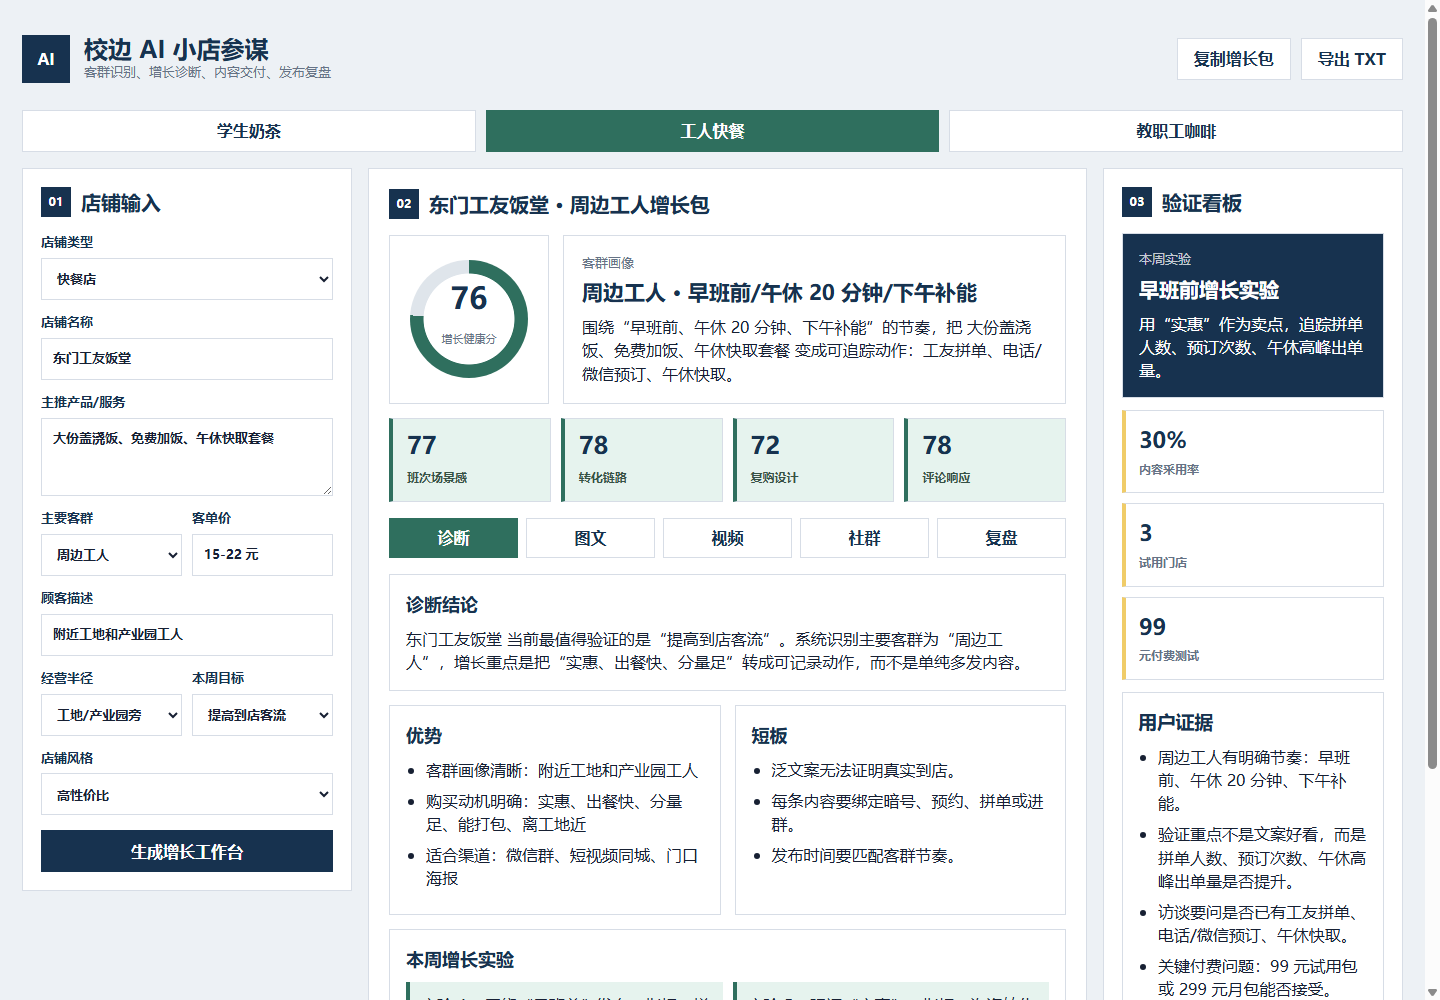
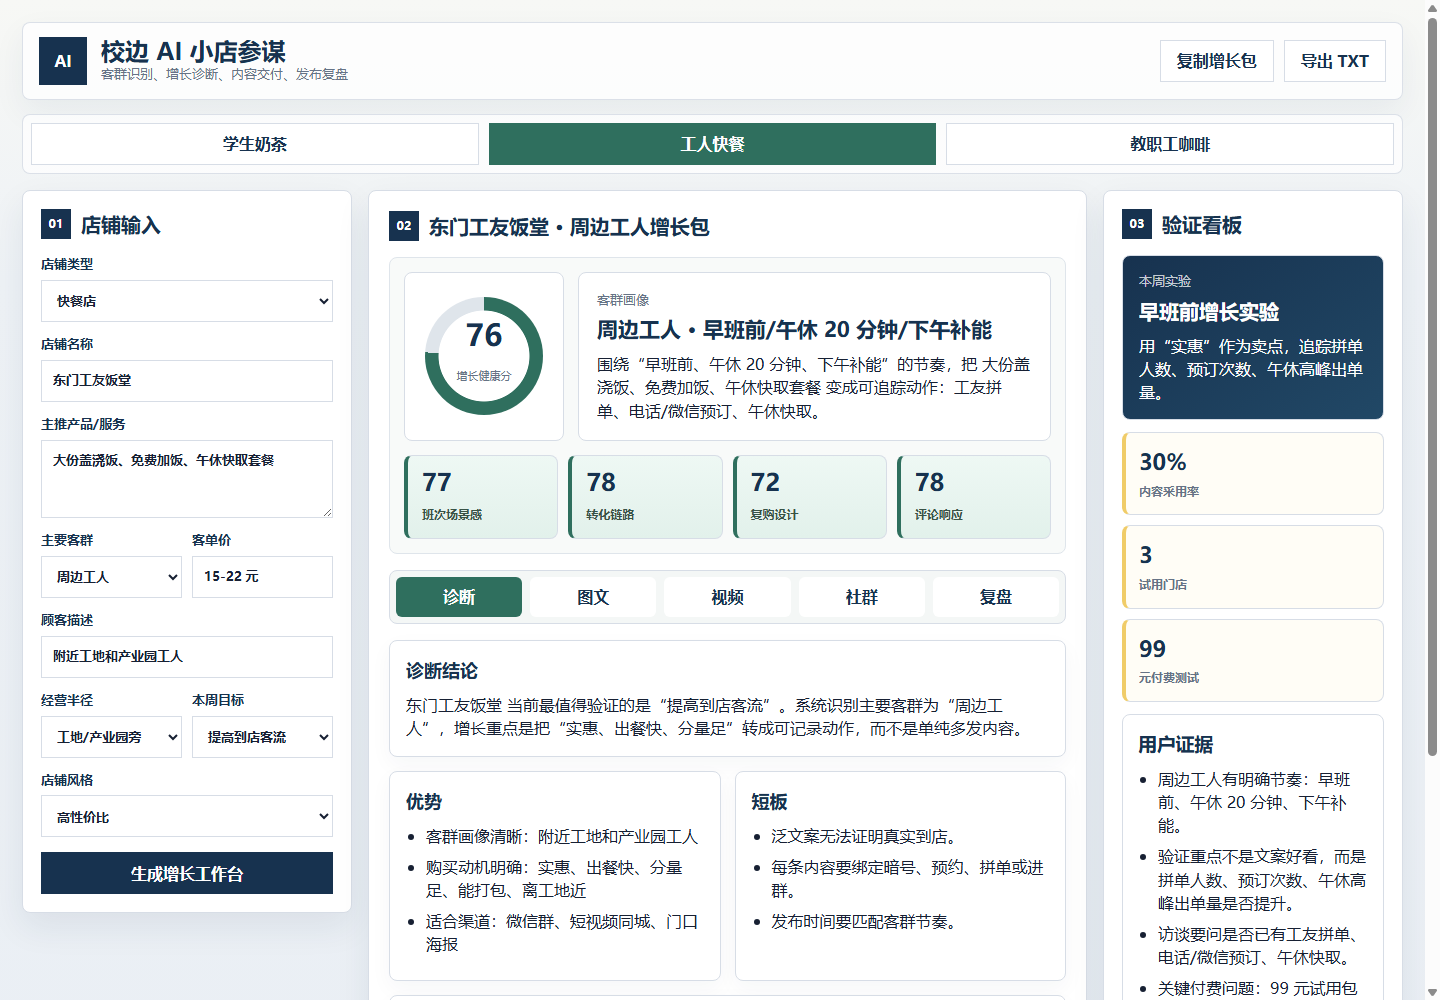
Improve prototype mockup and visual design

diff --git a/submission-a4.html b/submission-a4.html
@@ -121,6 +121,127 @@
       font-size: 7.1pt;
       font-weight: 800;
     }
+    .prototype-mock {
+      display: grid;
+      grid-template-columns: 0.72fr 1.55fr 0.85fr;
+      gap: 2mm;
+      margin-top: 2mm;
+      border: 0.8pt solid #cbd5df;
+      background: #eef3f6;
+      padding: 2.4mm;
+      min-height: 52mm;
+    }
+    .mock-panel {
+      background: #fff;
+      border: 0.7pt solid #d3d8df;
+      padding: 2mm;
+    }
+    .mock-title {
+      color: #17324f;
+      font-size: 7.2pt;
+      font-weight: 800;
+      margin-bottom: 1.5mm;
+    }
+    .mock-field {
+      height: 5.2mm;
+      margin-bottom: 1.4mm;
+      background: #f4f7f6;
+      border: 0.6pt solid #d8e2e8;
+    }
+    .mock-chip-row {
+      display: grid;
+      grid-template-columns: repeat(3, 1fr);
+      gap: 1mm;
+      margin-bottom: 1.8mm;
+    }
+    .mock-chip {
+      height: 5.2mm;
+      display: grid;
+      place-items: center;
+      background: #e8f3ef;
+      color: #17324f;
+      font-size: 6pt;
+      font-weight: 800;
+    }
+    .mock-chip.active {
+      background: #2f6f5e;
+      color: #fff;
+    }
+    .mock-score {
+      display: grid;
+      grid-template-columns: 18mm 1fr;
+      gap: 2mm;
+      margin-bottom: 2mm;
+    }
+    .mock-ring {
+      width: 18mm;
+      height: 18mm;
+      border-radius: 50%;
+      display: grid;
+      place-items: center;
+      color: #17324f;
+      font-size: 10pt;
+      font-weight: 900;
+      background:
+        radial-gradient(circle at center, #fff 0 53%, transparent 54%),
+        conic-gradient(#2f6f5e 77%, #dfe5eb 0);
+    }
+    .mock-headline {
+      background: #f4f7f6;
+      padding: 1.8mm;
+      color: #17324f;
+      font-size: 7pt;
+      font-weight: 800;
+    }
+    .mock-metrics {
+      display: grid;
+      grid-template-columns: repeat(4, 1fr);
+      gap: 1mm;
+      margin-bottom: 2mm;
+    }
+    .mock-metrics div {
+      background: #e8f3ef;
+      border-left: 2pt solid #2f6f5e;
+      padding: 1.3mm;
+      min-height: 10mm;
+      color: #17324f;
+      font-size: 6pt;
+      font-weight: 800;
+    }
+    .mock-result {
+      display: grid;
+      grid-template-columns: repeat(2, 1fr);
+      gap: 1.3mm;
+    }
+    .mock-result div {
+      min-height: 12mm;
+      background: #fff;
+      border: 0.6pt solid #d3d8df;
+      padding: 1.5mm;
+      font-size: 6.2pt;
+      color: #142033;
+    }
+    .mock-side-card {
+      background: #17324f;
+      color: #fff;
+      padding: 2mm;
+      font-size: 6.4pt;
+      margin-bottom: 1.5mm;
+      min-height: 18mm;
+    }
+    .mock-kpi {
+      display: grid;
+      grid-template-columns: repeat(2, 1fr);
+      gap: 1mm;
+    }
+    .mock-kpi div {
+      background: #fff8df;
+      border-left: 2pt solid #f0cc68;
+      padding: 1.5mm;
+      font-size: 6pt;
+      color: #17324f;
+      font-weight: 800;
+    }
     .timeline {
       grid-template-columns: repeat(7, 1fr);
     }
@@ -186,18 +307,45 @@
 
       <section class="wide">
         <h2>3. MVP 样例：可交互 Demo 页面</h2>
-        <p><span class="label">MVP 不是完整 SaaS：</span>只做一个可点击页面，验证老板能否在 3 分钟内理解“客群诊断 + 一周增长包”，并愿意发布/付费。</p>
-        <div class="mvp-row">
-          <div class="screen"><strong>输入屏</strong><span>店铺类型、产品、客单价、主要客群、经营半径、周目标。内置学生奶茶/工人快餐/教职工咖啡。</span></div>
-          <div class="screen"><strong>诊断屏</strong><span>输出增长健康分、客群节奏、购买动机、短板和本周增长实验。</span></div>
-          <div class="screen"><strong>交付屏</strong><span>生成 7 天图文、3 条视频脚本、社群/评论话术，并支持复制/导出。</span></div>
-        </div>
-        <div class="flow">
-          <div class="step">填 6 个字段</div>
-          <div class="step">选择客群样例</div>
-          <div class="step">AI 给诊断</div>
-          <div class="step">发布增长包</div>
-          <div class="step">回填指标</div>
+        <p><span class="label">MVP 不是完整 SaaS：</span>只做一个可点击页面，验证老板能否在 3 分钟内理解“客群诊断 + 一周增长包”，并愿意发布/付费。下方缩略图对应真实原型页面布局。</p>
+        <div class="prototype-mock">
+          <div class="mock-panel">
+            <div class="mock-title">01 店铺输入</div>
+            <div class="mock-field"></div>
+            <div class="mock-field"></div>
+            <div class="mock-field" style="height:12mm;"></div>
+            <div class="mock-field"></div>
+            <div class="mock-field"></div>
+          </div>
+          <div class="mock-panel">
+            <div class="mock-chip-row">
+              <div class="mock-chip active">学生奶茶</div>
+              <div class="mock-chip">工人快餐</div>
+              <div class="mock-chip">教职工咖啡</div>
+            </div>
+            <div class="mock-score">
+              <div class="mock-ring">77</div>
+              <div class="mock-headline">学生 · 下课后/午饭前后/晚自习前<br>生成诊断结论和本周增长实验</div>
+            </div>
+            <div class="mock-metrics">
+              <div>场景感<br>81</div>
+              <div>转化链路<br>78</div>
+              <div>复购设计<br>72</div>
+              <div>评论响应<br>78</div>
+            </div>
+            <div class="mock-result">
+              <div><strong>诊断结论</strong><br>客群节奏、购买动机、短板。</div>
+              <div><strong>增长包</strong><br>7 天图文、视频脚本、社群话术。</div>
+            </div>
+          </div>
+          <div class="mock-panel">
+            <div class="mock-title">03 验证看板</div>
+            <div class="mock-side-card">本周实验：下课后暗号福利<br>追踪收藏、到店暗号、进群人数。</div>
+            <div class="mock-kpi">
+              <div>30%<br>采用率</div>
+              <div>99<br>付费测试</div>
+            </div>
+          </div>
         </div>
       </section>
 

diff --git a/prototype/styles.css b/prototype/styles.css
@@ -17,7 +17,8 @@
 body {
   margin: 0;
   color: var(--ink);
-  background: var(--canvas);
+  background:
+    linear-gradient(180deg, #f7f8f5 0, #eef2f6 280px, #e9eef4 100%);
   font-family: "Microsoft YaHei", "PingFang SC", Arial, sans-serif;
   line-height: 1.45;
 }
@@ -27,6 +28,8 @@ button { cursor: pointer; }
 
 .shell {
   min-height: 100vh;
+  max-width: 1480px;
+  margin: 0 auto;
   padding: 22px;
 }
 
@@ -37,6 +40,11 @@ button { cursor: pointer; }
   justify-content: space-between;
   gap: 20px;
   margin-bottom: 14px;
+  padding: 14px 16px;
+  background: rgba(255,255,255,.74);
+  border: 1px solid rgba(215,221,230,.9);
+  border-radius: 8px;
+  box-shadow: 0 12px 32px rgba(23,50,79,.06);
 }
 
 .brand {
@@ -93,6 +101,10 @@ h1 {
   grid-template-columns: repeat(3, minmax(0, 1fr));
   gap: 10px;
   margin-bottom: 16px;
+  padding: 8px;
+  background: rgba(255,255,255,.72);
+  border: 1px solid rgba(215,221,230,.9);
+  border-radius: 8px;
 }
 
 .preset.active {
@@ -111,6 +123,8 @@ h1 {
 .input-panel, .main-panel, .insight-panel {
   background: var(--panel);
   border: 1px solid var(--line);
+  border-radius: 8px;
+  box-shadow: 0 14px 34px rgba(23,50,79,.08);
 }
 
 .input-panel, .insight-panel {
@@ -192,11 +206,16 @@ input:focus, select:focus, textarea:focus {
   grid-template-columns: 160px minmax(0, 1fr);
   gap: 14px;
   margin-bottom: 16px;
+  padding: 14px;
+  border: 1px solid #dfe5eb;
+  background: #f8faf9;
+  border-radius: 8px;
 }
 
 .score-card, .profile-card, .metric-grid div, .experiment, .tracker div, .rail-list, .output-card {
   border: 1px solid var(--line);
   background: #fff;
+  border-radius: 8px;
 }
 
 .score-card {
@@ -248,7 +267,7 @@ input:focus, select:focus, textarea:focus {
 .metric-grid div {
   padding: 14px;
   border-left: 4px solid var(--green);
-  background: var(--mint);
+  background: linear-gradient(180deg, #eef8f4, #e2f1eb);
 }
 
 .metric-grid strong {
@@ -270,14 +289,19 @@ input:focus, select:focus, textarea:focus {
   grid-template-columns: repeat(5, 1fr);
   gap: 8px;
   margin-bottom: 16px;
+  padding: 6px;
+  background: #f4f7f6;
+  border: 1px solid var(--line);
+  border-radius: 8px;
 }
 
 .tab {
   min-height: 40px;
-  border: 1px solid var(--line);
+  border: 0;
   background: #fff;
   color: var(--blue);
   font-weight: 900;
+  border-radius: 6px;
 }
 
 .tab.active {
@@ -294,6 +318,7 @@ input:focus, select:focus, textarea:focus {
 
 .output-card {
   padding: 16px;
+  box-shadow: 0 8px 22px rgba(23,50,79,.04);
 }
 
 .output-card.wide {
@@ -325,6 +350,7 @@ input:focus, select:focus, textarea:focus {
   background: var(--mint);
   padding: 11px;
   border-left: 4px solid var(--green);
+  border-radius: 6px;
 }
 
 .script-item {
@@ -332,11 +358,12 @@ input:focus, select:focus, textarea:focus {
   border-left: 4px solid var(--gold);
   padding: 12px;
   margin-bottom: 10px;
+  border-radius: 6px;
 }
 
 .experiment {
   padding: 16px;
-  background: var(--blue);
+  background: linear-gradient(145deg, #17324f, #214866);
   color: #fff;
   margin-bottom: 12px;
 }
@@ -359,6 +386,7 @@ input:focus, select:focus, textarea:focus {
 .tracker div {
   padding: 13px;
   border-left: 4px solid var(--gold);
+  background: #fffdf6;
 }
 
 .tracker strong {